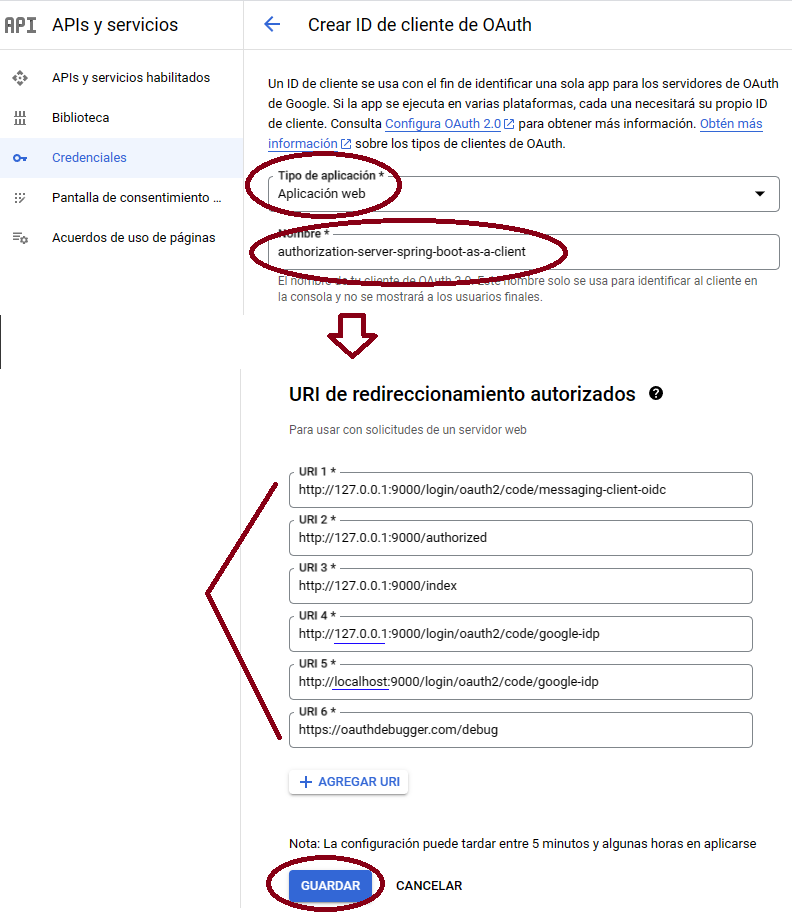
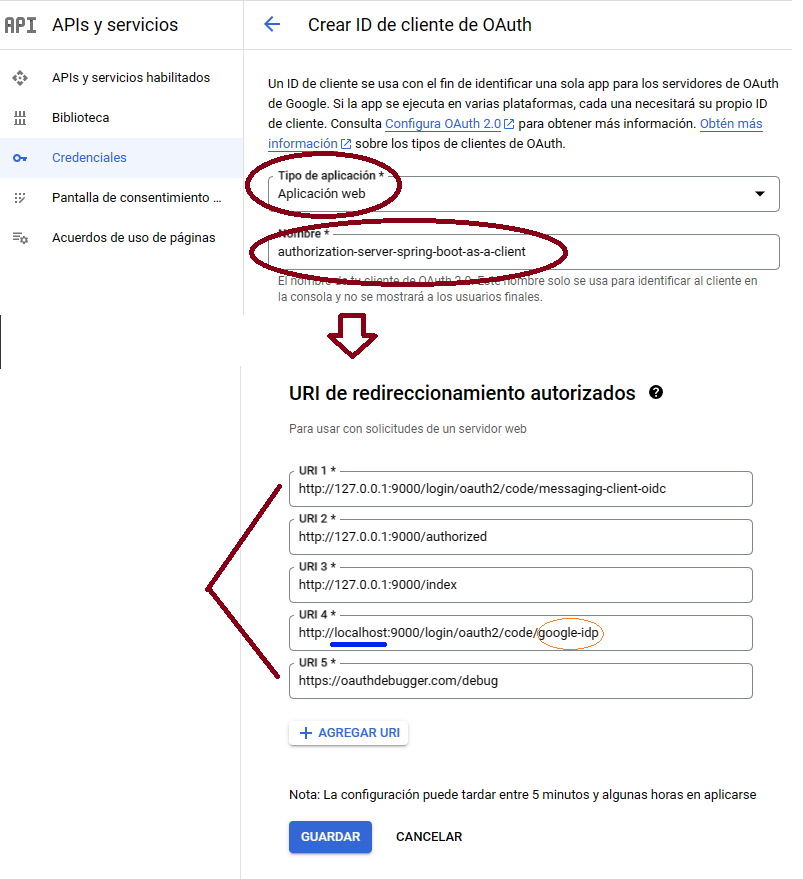
Registrando cliente OAuth2

diff --git a/README.md b/README.md
@@ -1159,10 +1159,14 @@ de datos:
 
 # CAPÍTULO 5: Social Login - Google
 
-No coloco **CAPÍTULO 4** porque siguiendo el listado del tutorial el capítulo 4 trató sobre la implementación del
-[**Resource Server**](https://github.com/magadiflo/resource-server.git).
+- No coloco **CAPÍTULO 4** porque siguiendo el listado del tutorial el capítulo 4 trató sobre la implementación del
+  [**Resource Server**](https://github.com/magadiflo/resource-server.git).
+- **Referencia Oficial:**
+  [Cómo: Autenticación mediante Social Login](https://docs.spring.io/spring-authorization-server/docs/current/reference/html/guides/how-to-social-login.html)
 
 ---
+
+## Registro con el proveedor de inicio de sesión social
 
 Utilizaremos `Google` para que los usuarios puedan iniciar sesión. En ese sentido, el servidor de `Google` se convertirá
 en nuestro `Authorization Server` para esta nueva funcionalidad de social login, mientras que nuestra aplicación de
@@ -1206,18 +1210,50 @@ Credenciales y **CREAR CREDENCIALES**:
 
 ![25-cliente-google-7](./assets/25-cliente-google-7.png)
 
-Esta parte es muy importante, ya que aquí seleccionamos que el tipo de aplicación que vamos a registrar, en nuestro caso
-será una **Aplicación Web** y además le tenemos que dar un nombre a nuestra aplicación cliente. Otro punto importante,
-es que en la parte inferior agregamos explícitamente las url de redireccionamiento que están autorizados para nuestra
-aplicación cliente:
+**Esta parte es muy importante**, ya que aquí seleccionamos que el tipo de aplicación que vamos a registrar, en nuestro
+caso será una **Aplicación Web** y además le tenemos que **dar un nombre a nuestra aplicación cliente**. Otro punto
+importante es que en la parte inferior agregamos explícitamente las url de redireccionamiento que están autorizados
+para nuestra aplicación cliente.
+
+Según la **documentación oficial** que referencié al inicio de este capítulo, menciona que cuando lleguemos a este
+punto del registro donde nos soliciten especificar un **URI de redirección**, debemos definir un `registrationId`
+(como google, my-client o cualquier otro identificador único que desee) que utilizaremos para configurar tanto
+Spring Security como su proveedor. En mi caso, elegí como un `registrationId` a `google-idp`. Si observamos la imagen
+inferior, veremos que he encerrado en un círculo naranja ese identificador.
+
+El `registrationId` **es un identificador único para el ClientRegistration en Spring Security**. La plantilla
+Redirect URI predeterminada es `{baseUrl}/login/oauth2/code/{registrationId}`. Consulte
+[Configuración del URI de redirección](https://docs.spring.io/spring-security/reference/servlet/oauth2/login/core.html#oauth2login-sample-redirect-uri)
+en la referencia de Spring Security para obtener más información.
 
 ![26-cliente-google-8](./assets/26-cliente-google-8.png)
+
+**NOTA**
+> Las demás uris de redireccionamiento las coloqué siguiendo el video del tutorial, aunque según la documentación
+> oficial, nos muestra como único uri de redireccionamiento el que configuramos con nuestro registrationId
+> **google-idp**: `http://localhost:9000/login/oauth2/code/google-idp`
 
 Finalmente, como último paso, Google nos mostrará las credenciales que deberá tener nuestra aplicación cliente:
 
 ![27-cliente-google-9](./assets/27-cliente-google-9.png)
 
-## Nuevas Dependencias
+## Usando .env en IntelliJ IDEA
+
+Las credenciales que nos generó google no la debemos subir al repositorio por lo que optaremos por crear un archivo
+`.env` en la raíz de nuestro proyecto donde definiremos las variables de entorno que contendrán nuestras credenciales:
+
+````dotenv
+GOOGLE_CLIENT_ID=580379...
+GOOGLE_CLIENT_SECRET=GOCS...
+````
+
+Como estamos trabajando con **IntelliJ IDEA** necesitamos de alguna forma leer el archivo `.env` cada vez que ejecutemos
+la aplicación, para eso debemos instalar el plugin [EnvFile](https://plugins.jetbrains.com/plugin/7861-envfile) y
+a continuación agregar el archivo `.env` en la configuración de ejecución:
+
+![28-env-intellij-idea](./assets/28-env-intellij-idea.png)
+
+## Añadir dependencia de cliente OAuth2
 
 En este capítulo, como estamos viendo el tema del **Social Login**, el **servidor de autorización** que creamos en los
 capítulos iniciales con Spring Boot 3, las dependencias de OAuth2 Authorization Server, etc., ahora se convertirá
@@ -1240,7 +1276,47 @@ por lo que necesitamos agregar la dependencia de `thymeleaf`:
         <groupId>org.springframework.boot</groupId>
         <artifactId>spring-boot-starter-thymeleaf</artifactId>
     </dependency>
-
     <!--Other dependencies-->
 </dependencies>
 ````
+
+## Registrar un cliente
+
+A continuación, configure el `ClientRegistration` con los valores obtenidos anteriormente. Usando Google, configure las
+siguientes propiedades:
+
+````yml
+spring:
+  security:
+    oauth2:
+      client:
+        registration:
+          google-idp:
+            provider: google
+            client-id: ${GOOGLE_CLIENT_ID}
+            client-secret: ${GOOGLE_CLIENT_SECRET}
+            scope: openid, https://www.googleapis.com/auth/userinfo.profile, https://www.googleapis.com/auth/userinfo.email
+            client-name: authorization-server-spring-boot-as-a-client
+        provider:
+          google:
+            user-name-attribute: email
+````
+
+**DONDE**<br>
+Fuente 1: [OpenId-Connect](https://developers.google.com/identity/openid-connect/openid-connect?hl=es-419#appsetup)<br>
+Fuente 2: [OAuth2/scopes](https://developers.google.com/identity/protocols/oauth2/scopes?hl=es-419)
+
+- El `registrationId` en el ejemplo anterior es `google-idp`, mismo que usamos en el uri de redireccionamiento de
+  google.
+- `provider`, es `google` como nuestro proveedor de inicio de sesión social.
+- `client-id`, la string del ID de cliente que obtienes de `Credentials page` de API Console.
+- `scope`, debe comenzar con el valor `openid` y, luego, incluir el valor `profile`, el valor `email` o ambos.
+    - **openid**, asocie su cuenta con su información personal en Google.
+    - **https://www.googleapis.com/auth/userinfo.profile**, permite ver su información personal, incluidos los datos
+      personales que haya hecho públicos.
+    - **https://www.googleapis.com/auth/userinfo.email**, consultar la dirección de correo electrónico principal de su
+      Cuenta de Google.
+- `client-name`, el nombre de tu cliente de OAuth 2.0. Este nombre solo se usa para identificar al cliente en la
+  consola de `google cloud` y no se mostrará a los usuarios finales.
+- `user-name-attribute`, el claim en `id_token` o en la respuesta de información del usuario que contiene el username
+  del usuario.
